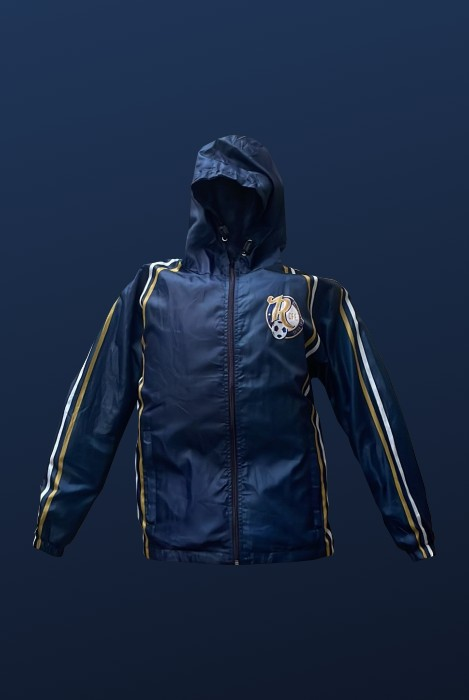
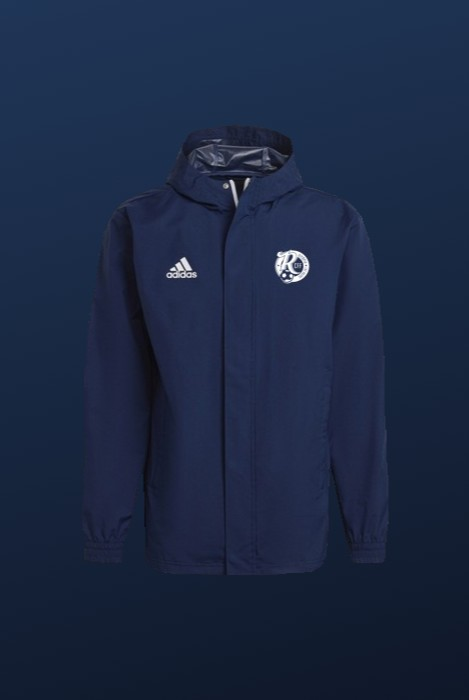
Quitado el chubasquero antigua y añadido sin activar y a falta del link el nuevo chubasquero

Changed region(s): [[0.0597, 0.18, 0.9254, 0.84], [0.7463, 0.3, 0.7761, 0.33]]

diff --git a/7-Tienda/tienda.html b/7-Tienda/tienda.html
@@ -89,6 +89,20 @@
         <!-- Shop Section -->
         <section id="Shop">
             <div class="grid">
+                <!-- <div class="element">
+                    <a href="">
+                        <div class="display">
+                            <img id="img2" src="../gen_resources/shop/chubasquero.jpg" alt="Chubasquero del Olympia"/>
+                            <div class="price">
+                                <h2>39,25 €</h2>
+                            </div>
+                        </div>
+                    </a>             
+                    <div class="content">
+                        <h1>CHUBASQUERO OLYMPIA (NUEVO)</h1>
+                        <h2>Ropa de abrigo</h2>
+                    </div>
+                </div> -->
                 <div class="element">
                     <a href="articulos/form_cinta.html">
                         <div class="display">
@@ -176,20 +190,6 @@
                     </a>
                     <div class="content">
                         <h1>ABRIGO OLYMPIA</h1>
-                        <h2>Ropa de abrigo</h2>
-                    </div>
-                </div>
-                <div class="element">
-                    <a href="articulos/form_chubasquero.html">
-                        <div class="display">
-                            <img id="img2" src="../gen_resources/shop/chubasquero.jpg" alt="Chubasquero del Olympia"/>
-                            <div class="price">
-                                <h2>26,50 €</h2>
-                            </div>
-                        </div>
-                    </a>             
-                    <div class="content">
-                        <h1>CHUBASQUERO OLYMPIA</h1>
                         <h2>Ropa de abrigo</h2>
                     </div>
                 </div>
